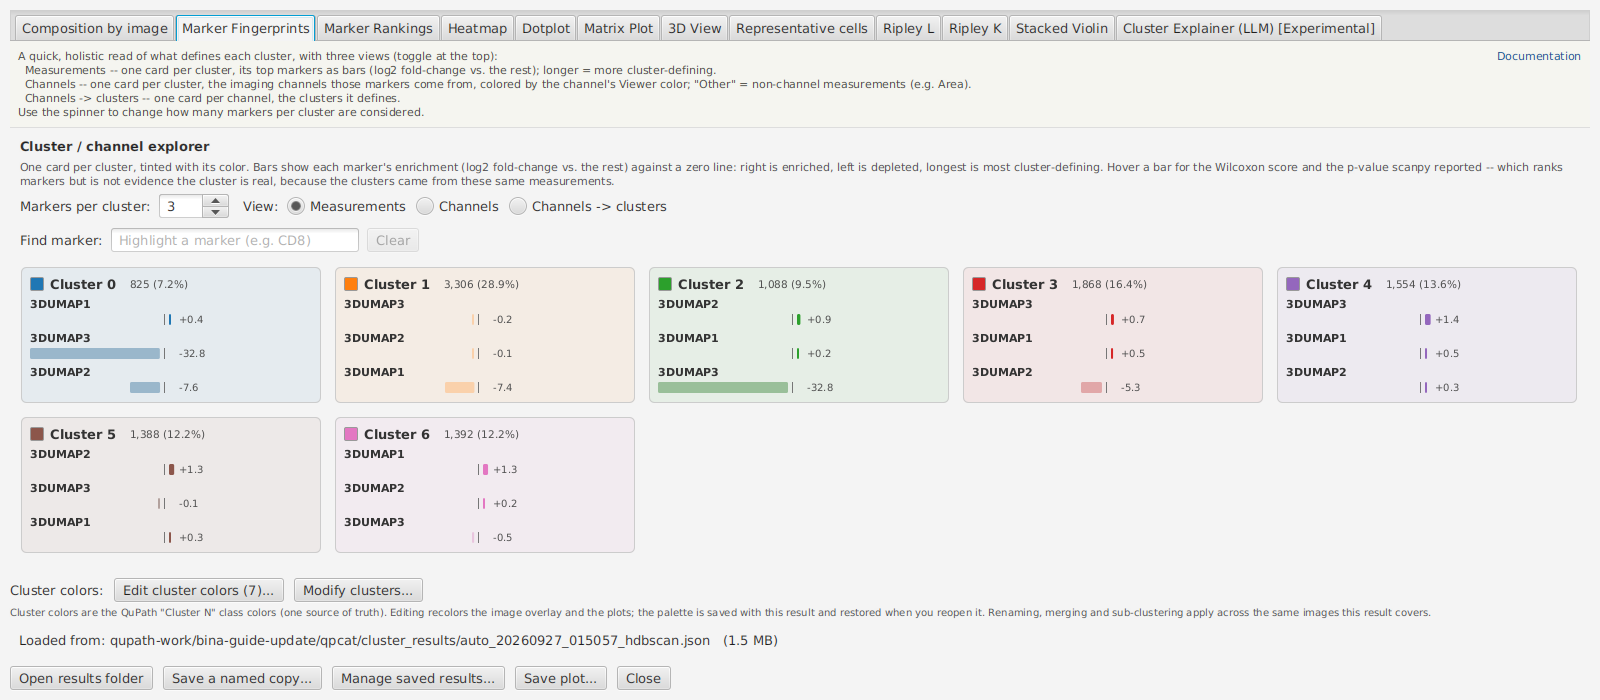
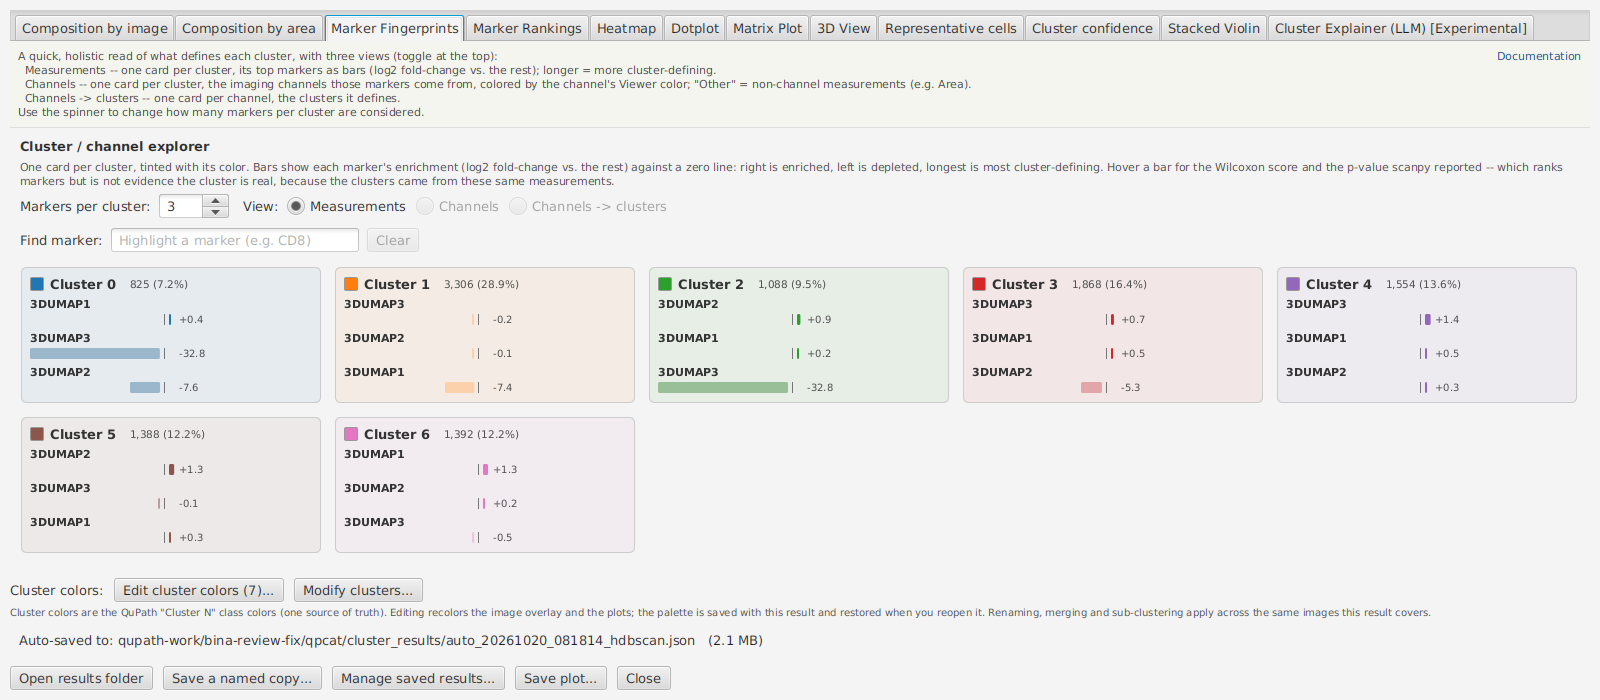
QP-CAT figures: re-render nine from runs made as the guide's steps say
The 4.4 fingerprints came from a run made against step 4.3 (25 measurements
incl. QPCAT spatial: Mean distance, Ripley on), and the 3.3/4.2/5.4 figures
carried tabs a reader's run does not have (Ripley K, Neighborhood
Enrichment, Geary's C). qpcat_4-2_cells.png showed a /home path, and the
5.1 dialog shots were Windows dark theme from another project.

Re-rendered through the real dialogs on QP-CAT origin/main 9b2120e, on a
fresh unzip of the released clustered project. The KMeans and HDBSCAN runs
reproduce the saved results cell for cell. FIGURE_SOURCES records the
scenario, the runs, and corrects the 0.22.0 enrichment-tab claim.

Claude-Session: https://claude.ai/code/session_01TZFXuLKiz1DgbomrTgfDTw

Changed region(s): [[0.0938, 0.0, 0.9688, 0.06], [0.0, 0.9, 0.5, 0.93], [0.2812, 0.27, 0.4062, 0.3]]

diff --git a/images/qp-cat/FIGURE_SOURCES.md b/images/qp-cat/FIGURE_SOURCES.md
@@ -105,7 +105,6 @@ each except 6 for `tme_07`.
 
 | Figure | Status |
 |---|---|
-| `qpcat_5-1_settings_top.png`, `qpcat_5-1_settings_low.png` | reachable -- `SpatialStatsDialog`. Not stale on 2026-10-20: that dialog changed only a saved-result label |
 | `menu.png`, `menu-savedresults.png` | reachable in principle, awkward: a cascading menu has to be shown and posted before it has a layout to snapshot. Not stale on 2026-10-20: no menu label changed after 0.22.0 |
 
 Each needs a `case` in `QpcatDialogShotScenario`'s dispatch, plus whatever
@@ -189,20 +188,82 @@ which does. A user who unticks the statistics last sees the stale line
 ("Spatial statistics are usually the slowest part of a run ...") until they
 change anything else.
 
-**Kept, checked against the build:** `qpcat_4-2_cells.png` (the Representative
-cells tab rendered with the same crops and controls), `qpcat_5-1_summary.png` and
-`qpcat_5-4_ripleyL.png` (no change to the summary window or the Ripley L chart), `menu.png`,
-`menu-savedresults.png`, `qpcat_5-1_settings_top.png`,
-`qpcat_5-1_settings_low.png`.
+**Kept, checked against the build:** `menu.png` and `menu-savedresults.png`. (The other
+figures this paragraph used to list were re-rendered later the same day; see
+[the re-renders from the guide's own steps](#2026-10-20-re-renders-from-the-guides-own-steps).)
 
 **What a per-image spatial window shows now.** A scratch run
 (`BinaSpatialProbeScenario.java`, same folder) with Co-occurrence (pairwise) and
 Neighborhood enrichment over all eight images took 4 s and gave `tme_00.tif` the
 tabs *3D View, Co-occurrence (pairwise), Neighborhood Enrichment, Neighborhood
-Enrichment (plot)*. On 0.22.0 that window had no enrichment tab, which is what
-the guide's step 5.1 box used to say.
+Enrichment (plot)*. On 0.22.0 that window has only the heatmap, as a tab named
+*Neighborhood Enrichment* (CHANGELOG `[0.22.0]`, commit f5b9240), with no table and no edge
+counts. An earlier version of this paragraph said 0.22.0 had no enrichment tab at all; that was
+0.21.0, and the guide carried the error until the 2026-10-20 review.
 
 ---
+
+## 2026-10-20 re-renders from the guide's own steps
+
+After a doc review found that `qpcat_4-4_fingerprints.png` came from a run made against the
+guide's step 4.3 (25 measurements, including `QPCAT spatial: Mean distance`, with Ripley on),
+nine figures were rendered again from runs made **exactly as the guide's steps say**, through
+the real dialogs, on the development build. These replace the saved-result renders above for
+those nine figures.
+
+- **Jar:** QP-CAT `origin/main` `9b2120e`, built in a temporary detached worktree (removed
+  afterwards); `md5 529c50c4...`.
+- **Project:** a fresh unzip of the **released**
+  `multiplex-synthetic-data-demo-project-clustered.zip` (v1.2 asset, sha256 `330dde5f...`),
+  paths fixed with `fix_image_paths.groovy`, at `qupath-work/bina-review-fix` (and a second
+  copy, `bina-review-fix-kmeans`, for the step 3 run).
+- **Scenario:** `/mnt/f/claude/bina-guide-update/scenarios/BinaGuideRunScenario.java`. It opens
+  each dialog, sets the controls the guide's table names, presses Run or Analyze, answers
+  **QPCAT - replace classifications?**, and snapshots the window that opens. No image is open,
+  so every Scope is **All project images (8)** unless the step says otherwise.
+
+```bash
+cd ~/QPSC_Project
+QP_HARNESS_WORK=qupath-work/bina-review-fix-work-a tools/qp-harness/bin/qp-gui \
+    /mnt/f/claude/bina-guide-update/scenarios/BinaGuideRunScenario.java <qpcat-worktree> \
+    qupath-work/bina-review-fix qupath-work/bina-review-fix-shots/<step> <step> [ticks]
+# <step>, in order: hdbscan, analyze, spatial "Cluster 1,Cluster 6", step6, analyze6
+# kmeans runs on the second copy, bina-review-fix-kmeans
+```
+
+| Figure | Step | Run |
+|---|---|---|
+| `fingerprints-kmeans6.png` | 3.2 | KMeans k=6, 30 measurements, UMAP 3D; 40 s |
+| `qpcat_4-2_fingerprints.png`, `qpcat_4-2_cells.png`, `qpcat_4-2_3D.png` | 4.1 | HDBSCAN 500 / 0 / Leaf on `3DUMAP1-3`; 31 s |
+| `qpcat_4-4_fingerprints.png` | 4.3 | Analyze, 24 measurements, Method None, every spatial statistic unticked |
+| `qpcat_5-1_settings_top.png`, `qpcat_5-1_settings_low.png` | 5.1 | the dialog set up as the table says, snapshotted at 2x and cropped (rows 120-1150 and 1165-2120) |
+| `qpcat_5-1_summary.png`, `qpcat_5-4_ripleyL.png` | 5.1-5.2 | Ripley L + Co-occurrence (pairwise), Neighborhood enrichment unticked, knn 15, permutations 0; 210 s; tme_00's **Open**, then **None** and Cluster 1 + 6 ticked |
+
+**What the runs showed:**
+
+- **Every count reproduces.** The step 3 run gave the saved KMeans result's labels cell for
+  cell (3,306 / 1,914 / 2,752 / 1,093 / 1,566 / 790), and the step 4 run gave the saved
+  HDBSCAN result's labels cell for cell, under the same cluster numbers (825 / 3,306 / 1,088 /
+  1,868 / 1,554 / 1,388 / 1,392). The saved results were made with 0.12.2 and 0.14.8.
+- **The released clustered project holds only the KMeans result.** The HDBSCAN and
+  `_existingclassifications` results in `bina-guide-update` were never in the zip, so a reader's
+  4.3 run is their own. Its prompt for the Cluster Explainer is **3,369** characters (the shipped
+  `build_prompt`, top 5 per cluster); the 25-measurement run gave 3,391.
+- **The saved KMeans result's window** has **Ripley L**, **Neighborhood Enrichment** and
+  **Neighborhood Enrichment (plot)** tabs, because those were ticked when it was made; a run
+  with the 3.2 settings has none of them. The guide says so under the 3.3 figure.
+- **The tabs now match a reader's run:** no Ripley K, no Neighborhood Enrichment, no Geary's C
+  or one-vs-rest co-occurrence on figures whose step does not compute them.
+- **No personal path.** `qpcat_4-2_cells.png` showed `Loaded from: /home/...`; every figure now
+  shows the relative `qupath-work/bina-review-fix/...`, because the scenario is given a relative
+  project path.
+- **The 5.1 dialog shots are no longer Windows dark theme.** The class list in them is the
+  released project's own (CD20, CD3, ... `b_cell`, `cd8_t`, ...), where the Windows shots came
+  from another project.
+- **Step 6 (not a figure):** min_cluster_size 200 over `tme_00`, `tme_06`, `tme_07` gave seven
+  clusters, 4,197 cells, no noise, in 7 s. The analyze run over the same images gave B cells 106
+  / 179 / 0 and lymphoid fractions 32.7% / 50.1% / 5.9%, the numbers in 6.2, and every cluster's
+  total equals the ground truth for its type.
 
 ## The numbers in the guide are checkable
 
